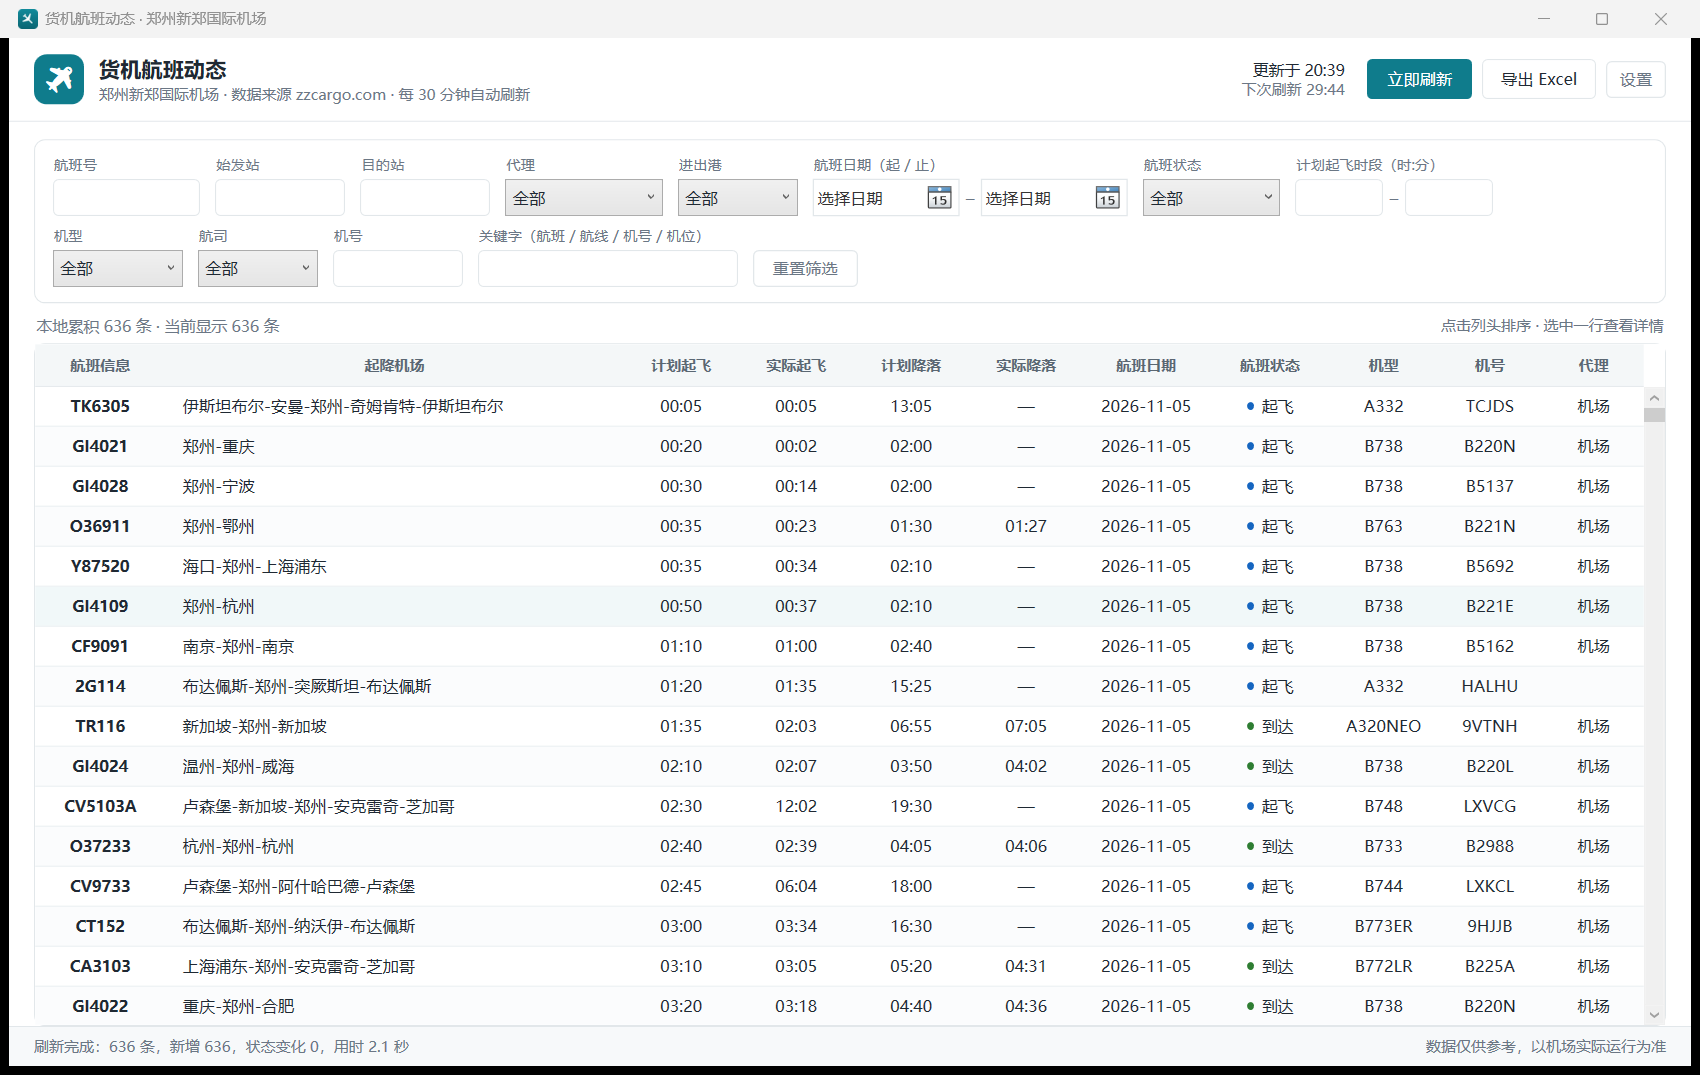
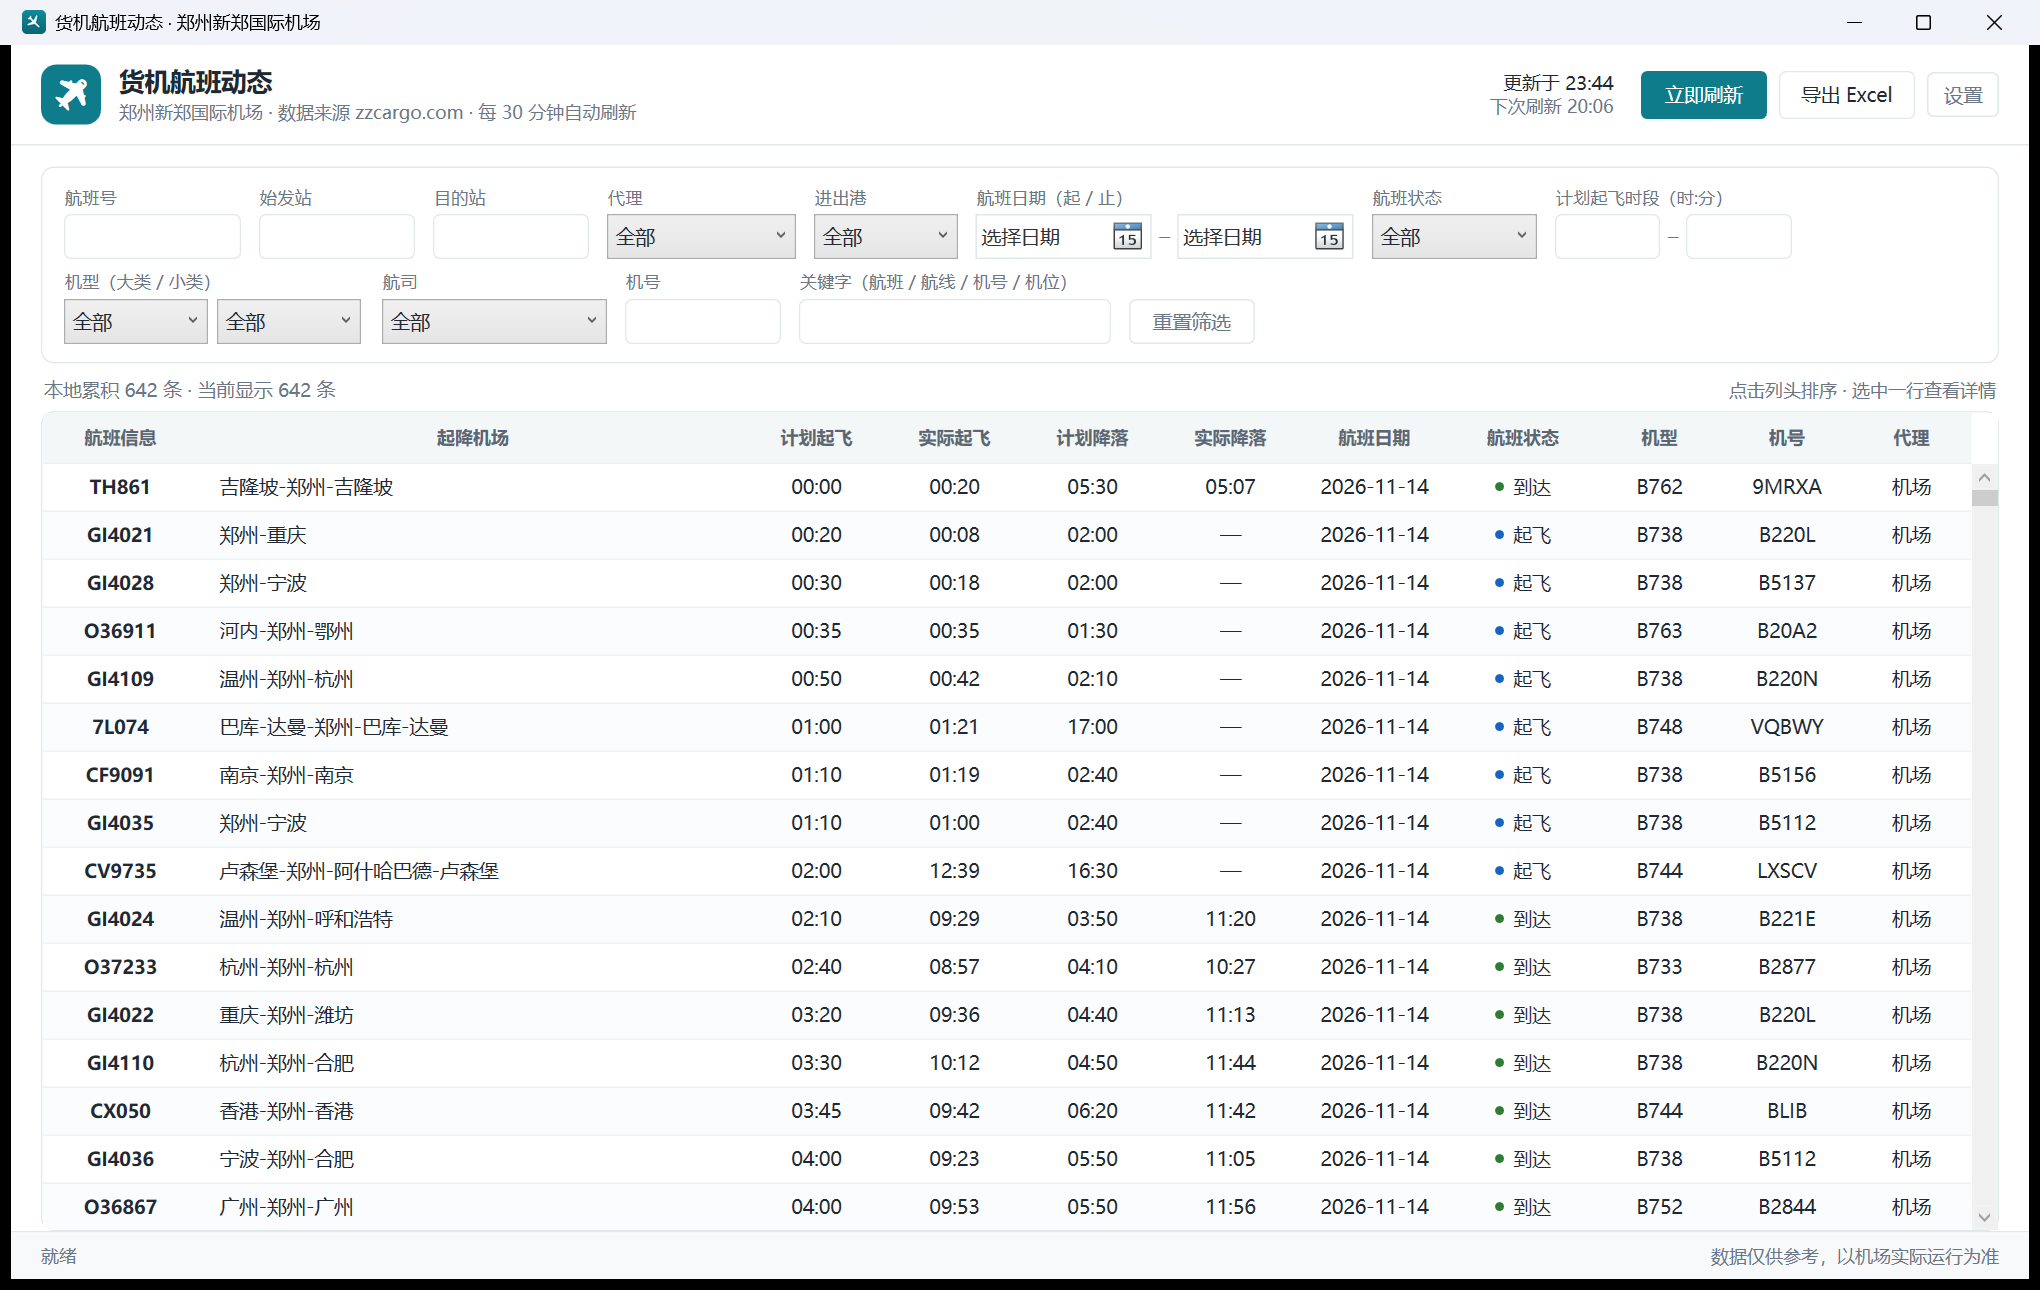
feat: 机型两级筛选与航司中文名同步到 Windows 版，版本升到 1.1.0
- 航司/机型对照表移到 Core（AircraftTypes / AirlineNames），Windows 与 Linux 共用
- WPF 筛选区：机型改为「大类 + 小类」两个下拉，航司下拉显示「CZ 中国南方航空」
- 修复机型大类排序（此前被字母序覆盖）
- 使用说明、README 同步；Windows 截图更新
- 两端版本号统一为 1.1.0

diff --git a/src/ZhccCargoBoard.App/MainWindow.xaml b/src/ZhccCargoBoard.App/MainWindow.xaml
@@ -162,13 +162,22 @@
                     </Grid>
                 </StackPanel>
 
-                <StackPanel Style="{StaticResource FilterItem}" Width="104">
-                    <TextBlock Text="机型" Style="{StaticResource FilterLabel}" />
-                    <ComboBox Style="{StaticResource InputCombo}" ItemsSource="{Binding CraftTypeOptions}"
-                              SelectedItem="{Binding CraftType, Mode=TwoWay}" />
+                <StackPanel Style="{StaticResource FilterItem}" Width="200">
+                    <TextBlock Text="机型（大类 / 小类）" Style="{StaticResource FilterLabel}" />
+                    <Grid>
+                        <Grid.ColumnDefinitions>
+                            <ColumnDefinition Width="96" />
+                            <ColumnDefinition Width="6" />
+                            <ColumnDefinition Width="96" />
+                        </Grid.ColumnDefinitions>
+                        <ComboBox Grid.Column="0" Style="{StaticResource InputCombo}" ItemsSource="{Binding TypeFamilyOptions}"
+                                  SelectedItem="{Binding TypeFamily, Mode=TwoWay}" />
+                        <ComboBox Grid.Column="2" Style="{StaticResource InputCombo}" ItemsSource="{Binding CraftTypeOptions}"
+                                  SelectedItem="{Binding CraftType, Mode=TwoWay}" />
+                    </Grid>
                 </StackPanel>
 
-                <StackPanel Style="{StaticResource FilterItem}" Width="96">
+                <StackPanel Style="{StaticResource FilterItem}" Width="150">
                     <TextBlock Text="航司" Style="{StaticResource FilterLabel}" />
                     <ComboBox Style="{StaticResource InputCombo}" ItemsSource="{Binding AirlineOptions}"
                               SelectedItem="{Binding Airline, Mode=TwoWay}" />

diff --git a/src/ZhccCargoBoard.App/ViewModels/MainViewModel.cs b/src/ZhccCargoBoard.App/ViewModels/MainViewModel.cs
@@ -33,8 +33,11 @@ public sealed class MainViewModel : INotifyPropertyChanged, IDisposable
     private string _status = AllOption;
     private string _timeFrom = "";
     private string _timeTo = "";
+    private string _typeFamily = AllOption;
     private string _craftType = AllOption;
     private string _airline = AllOption;
+    private readonly Dictionary<string, string> _typeLabelToRaw = new(StringComparer.Ordinal);
+    private readonly Dictionary<string, string> _airlineLabelToCode = new(StringComparer.Ordinal);
     private string _craftNo = "";
 
     private string _sortKey = "exec_date";
@@ -74,6 +77,7 @@ public sealed class MainViewModel : INotifyPropertyChanged, IDisposable
 
     public ObservableCollection<string> AgentOptions { get; } = new() { AllOption };
     public ObservableCollection<string> StatusOptions { get; } = new() { AllOption };
+    public ObservableCollection<string> TypeFamilyOptions { get; } = new() { AllOption };
     public ObservableCollection<string> CraftTypeOptions { get; } = new() { AllOption };
     public ObservableCollection<string> AirlineOptions { get; } = new() { AllOption };
     public ObservableCollection<string> DirectionOptions { get; } = new() { AllOption, "进港", "出港" };
@@ -157,12 +161,26 @@ public sealed class MainViewModel : INotifyPropertyChanged, IDisposable
         set => SetFilter(ref _timeTo, value);
     }
 
+    /// <summary>机型大类（波音737 / 空客A320 …），切换后重建小类列表。</summary>
+    public string TypeFamily
+    {
+        get => _typeFamily;
+        set
+        {
+            var normalized = value ?? AllOption;
+            if (string.Equals(_typeFamily, normalized, StringComparison.Ordinal)) return;
+            _typeFamily = normalized;
+            OnPropertyChanged();
+            RebuildCraftTypeOptions(resetSubtype: true);
+            ApplyFilters();
+        }
+    }
+
     public string CraftType
     {
         get => _craftType;
         set => SetFilter(ref _craftType, value);
     }
-
     public string Airline
     {
         get => _airline;
@@ -336,28 +354,115 @@ public sealed class MainViewModel : INotifyPropertyChanged, IDisposable
 
     private void RebuildOptions()
     {
-        void Fill(ObservableCollection<string> target, IEnumerable<string> values)
-        {
-            var current = target.Count > 0 ? target[0] : AllOption;
-            target.Clear();
-            target.Add(AllOption);
-            foreach (var value in values.Where(v => !string.IsNullOrWhiteSpace(v)).Distinct().OrderBy(v => v, StringComparer.Ordinal))
-            {
-                target.Add(value);
-            }
-        }
+        var agent = Agent;
+        var status = Status;
+        var family = TypeFamily;
+        var airline = Airline;
 
-        Fill(AgentOptions, _all.Select(r => r.Agency));
-        Fill(StatusOptions, _all.Select(r => r.StatusText));
-        Fill(CraftTypeOptions, _all.Select(r => r.CraftType));
-        Fill(AirlineOptions, _all.Select(r => r.AirlineCode));
+        SyncList(AgentOptions, WithAllSorted(_all.Select(r => r.Agency)));
+        SyncList(StatusOptions, WithAllSorted(_all.Select(r => r.StatusText)));
 
-        if (!AgentOptions.Contains(Agent)) Agent = AllOption;
-        if (!StatusOptions.Contains(Status)) Status = AllOption;
-        if (!CraftTypeOptions.Contains(CraftType)) CraftType = AllOption;
-        if (!AirlineOptions.Contains(Airline)) Airline = AllOption;
+        var families = _all.Select(r => AircraftTypes.FamilyOf(r.CraftType))
+                           .Where(f => !string.IsNullOrWhiteSpace(f))
+                           .Distinct()
+                           .OrderBy(AircraftTypes.FamilyRank)
+                           .ThenBy(f => f, StringComparer.Ordinal);
+        SyncList(TypeFamilyOptions, WithAll(families));
+        Restore(ref _typeFamily, TypeFamilyOptions, family, nameof(TypeFamily));
+
+        RebuildCraftTypeOptions(resetSubtype: false);
+        BuildAirlineOptions(airline);
+
+        Restore(ref _agent, AgentOptions, agent, nameof(Agent));
+        Restore(ref _status, StatusOptions, status, nameof(Status));
     }
 
+    /// <summary>按当前机型大类重建小类列表；resetSubtype 时小类重置为「全部」。</summary>
+    private void RebuildCraftTypeOptions(bool resetSubtype)
+    {
+        var previous = resetSubtype ? AllOption : CraftType;
+
+        _typeLabelToRaw.Clear();
+        var raws = _all.Select(r => r.CraftType)
+                       .Where(t => !string.IsNullOrWhiteSpace(t))
+                       .Distinct(StringComparer.OrdinalIgnoreCase)
+                       .Where(t => IsAll(TypeFamily) ||
+                                   string.Equals(AircraftTypes.FamilyOf(t), TypeFamily, StringComparison.Ordinal))
+                       .OrderBy(AircraftTypes.LabelOf, StringComparer.Ordinal)
+                       .ToList();
+
+        var desired = new List<string> { AllOption };
+        foreach (var raw in raws)
+        {
+            var label = AircraftTypes.LabelOf(raw);
+            if (_typeLabelToRaw.ContainsKey(label)) continue;
+            _typeLabelToRaw[label] = raw;
+            desired.Add(label);
+        }
+
+        SyncList(CraftTypeOptions, desired);
+        Restore(ref _craftType, CraftTypeOptions, previous, nameof(CraftType));
+    }
+
+    /// <summary>航司下拉显示「CZ 中国南方航空」，筛选时映射回代码。</summary>
+    private void BuildAirlineOptions(string? current)
+    {
+        _airlineLabelToCode.Clear();
+        var desired = new List<string> { AllOption };
+
+        foreach (var code in _all.Select(r => r.AirlineCode)
+                                 .Where(c => !string.IsNullOrWhiteSpace(c))
+                                 .Distinct(StringComparer.OrdinalIgnoreCase)
+                                 .OrderBy(c => c, StringComparer.OrdinalIgnoreCase))
+        {
+            var name = AirlineNames.Of(code);
+            var label = string.IsNullOrEmpty(name) ? code : $"{code} {name}";
+            if (_airlineLabelToCode.ContainsKey(label)) continue;
+            _airlineLabelToCode[label] = code;
+            desired.Add(label);
+        }
+
+        SyncList(AirlineOptions, desired);
+        Restore(ref _airline, AirlineOptions, current, nameof(Airline));
+    }
+
+    private void Restore(ref string field, ObservableCollection<string> options, string? current, string name)
+    {
+        field = current is not null && options.Contains(current) ? current : AllOption;
+        OnPropertyChanged(name);
+    }
+
+    /// <summary>保持传入顺序（机型大类用固定排序，不能在这里再按字母排一遍）。</summary>
+    private static IReadOnlyList<string> WithAll(IEnumerable<string> values)
+    {
+        var list = new List<string> { AllOption };
+        list.AddRange(values);
+        return list;
+    }
+
+    private static IReadOnlyList<string> WithAllSorted(IEnumerable<string> values)
+    {
+        return WithAll(values.Where(v => !string.IsNullOrWhiteSpace(v))
+                             .Distinct()
+                             .OrderBy(v => v, StringComparer.Ordinal));
+    }
+
+    /// <summary>增量同步集合，避免 Clear() 让 ComboBox 丢失选中项。</summary>
+    private static void SyncList(ObservableCollection<string> target, IReadOnlyList<string> desired)
+    {
+        for (var i = target.Count - 1; i >= 0; i--)
+        {
+            if (!desired.Contains(target[i])) target.RemoveAt(i);
+        }
+
+        for (var i = 0; i < desired.Count; i++)
+        {
+            if (i < target.Count && string.Equals(target[i], desired[i], StringComparison.Ordinal)) continue;
+            var existing = target.IndexOf(desired[i]);
+            if (existing >= 0) target.Move(existing, i);
+            else target.Insert(i, desired[i]);
+        }
+    }
     private void SetFilter(ref string field, string? value, [CallerMemberName] string? propertyName = null)
     {
         var normalized = value ?? "";
@@ -374,7 +479,7 @@ public sealed class MainViewModel : INotifyPropertyChanged, IDisposable
         {
             Keyword = ""; FlightNo = ""; Agent = AllOption; Direction = AllOption;
             Origin = ""; Dest = ""; DateFrom = null; DateTo = null; Status = AllOption;
-            TimeFrom = ""; TimeTo = ""; CraftType = AllOption; Airline = AllOption; CraftNo = "";
+            TimeFrom = ""; TimeTo = ""; _typeFamily = AllOption; RebuildCraftTypeOptions(resetSubtype: true); CraftType = AllOption; Airline = AllOption; CraftNo = "";
         }
         finally
         {
@@ -435,9 +540,18 @@ public sealed class MainViewModel : INotifyPropertyChanged, IDisposable
         }
 
         if (!IsAll(Status) && !string.Equals(r.StatusText, Status, StringComparison.Ordinal)) return false;
-        if (!IsAll(CraftType) && !string.Equals(r.CraftType, CraftType, StringComparison.OrdinalIgnoreCase)) return false;
-        if (!IsAll(Airline) && !string.Equals(r.AirlineCode, Airline, StringComparison.OrdinalIgnoreCase)) return false;
-        if (!string.IsNullOrWhiteSpace(CraftNo) && !Contains(r.CraftNo, CraftNo.Trim())) return false;
+        if (!IsAll(TypeFamily) &&
+            !string.Equals(AircraftTypes.FamilyOf(r.CraftType), TypeFamily, StringComparison.Ordinal)) return false;
+        if (!IsAll(CraftType))
+        {
+            var raw = _typeLabelToRaw.TryGetValue(CraftType, out var mapped) ? mapped : CraftType;
+            if (!string.Equals(r.CraftType, raw, StringComparison.OrdinalIgnoreCase)) return false;
+        }
+        if (!IsAll(Airline))
+        {
+            var code = _airlineLabelToCode.TryGetValue(Airline, out var mapped) ? mapped : Airline;
+            if (!string.Equals(r.AirlineCode, code, StringComparison.OrdinalIgnoreCase)) return false;
+        }        if (!string.IsNullOrWhiteSpace(CraftNo) && !Contains(r.CraftNo, CraftNo.Trim())) return false;
 
         return MatchesTimeWindow(r);
     }

diff --git a/src/ZhccCargoBoard.Core/Services/AirlineNames.cs b/src/ZhccCargoBoard.Core/Services/AirlineNames.cs
@@ -1,4 +1,4 @@
-namespace ZhccCargoBoard.Desktop.Services;
+namespace ZhccCargoBoard.Core.Services;
 
 /// <summary>
 /// 航司二字码 → 中文名（只用于界面显示；数据里的 agency 是地面代理，不能当航司名）。

diff --git a/src/ZhccCargoBoard.Desktop/ViewModels/MainViewModel.cs b/src/ZhccCargoBoard.Desktop/ViewModels/MainViewModel.cs
@@ -7,7 +7,6 @@ using ZhccCargoBoard.Core;
 using ZhccCargoBoard.Core.Models;
 using ZhccCargoBoard.Core.Services;
 using ZhccCargoBoard.Core.Storage;
-using ZhccCargoBoard.Desktop.Services;
 
 namespace ZhccCargoBoard.Desktop.ViewModels;
 

diff --git a/src/ZhccCargoBoard.Core/Services/AircraftTypes.cs b/src/ZhccCargoBoard.Core/Services/AircraftTypes.cs
@@ -1,4 +1,4 @@
-namespace ZhccCargoBoard.Desktop.Services;
+namespace ZhccCargoBoard.Core.Services;
 
 /// <summary>
 /// 机型代码 → 大类 / 短标签。

diff --git a/README.md b/README.md
@@ -18,7 +18,7 @@
 - **抓取**：一次抓全站 58 页 / 600+ 条，6 路并发，约 2~5 秒；自动校验 `sum(records) == total`，不一致自动重抓。
 - **累积**：SQLite 本地库，主键 `ffid`，按内容指纹判断变化，记录 `first_seen / last_seen / change_count`，按保留天数清理。
 - **刷新**：默认 30 分钟自动刷新（可调 1~1440），支持手动刷新、取消、失败退避重试；关闭窗口进托盘后台刷新。
-- **筛选**：航班号、始发站、目的站、代理、进出港、航班日期区间、航班状态、计划起飞时段、机型、航司、机号、全局关键字；列头点击排序。
+- **筛选**：航班号、始发站、目的站、代理、进出港、航班日期区间、航班状态、计划起飞时段、**机型（大类+小类：波音737 → 733/738/739）**、**航司（代码+中文名：CZ 中国南方航空）**、机号、全局关键字；列头点击排序。
 - **详情**：选中行右侧抽屉显示机位、航站楼、航班任务、异常信息、首次/最近记录时间。
 - **导出**：基础 9 列 + 可选 10 个附加列；范围可选当前筛选 / 全部 / 指定日期；时间写成真正的 Excel 时间，日期写成真正的日期；冻结首行 + 自动筛选。
 
